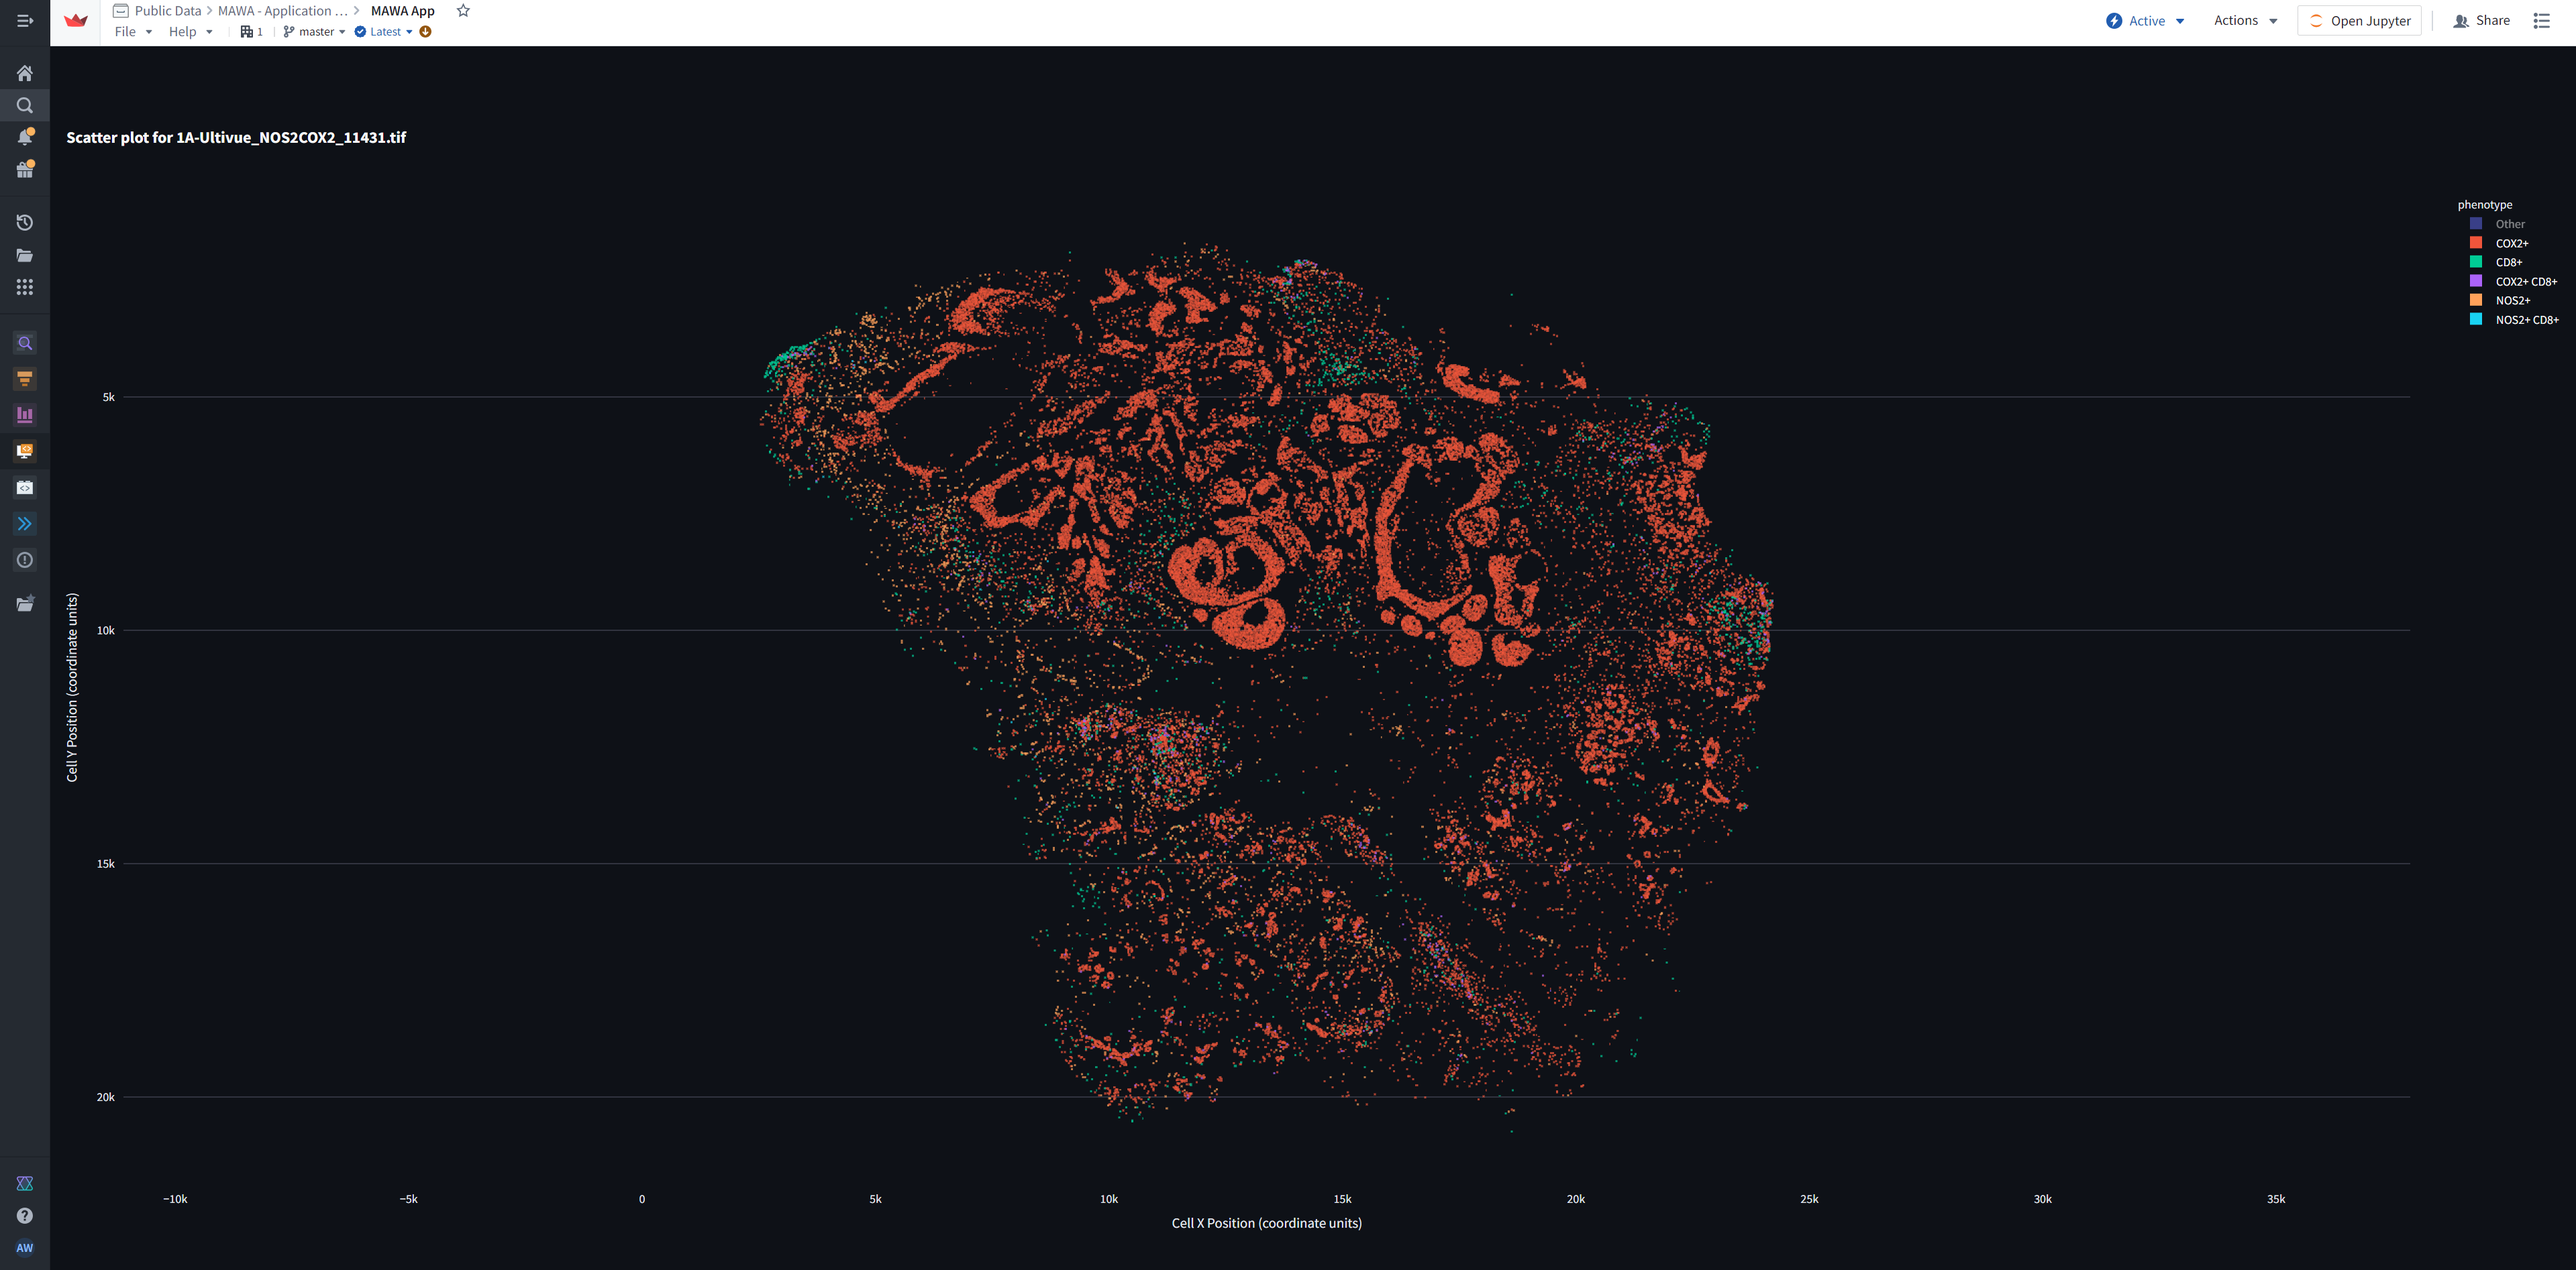
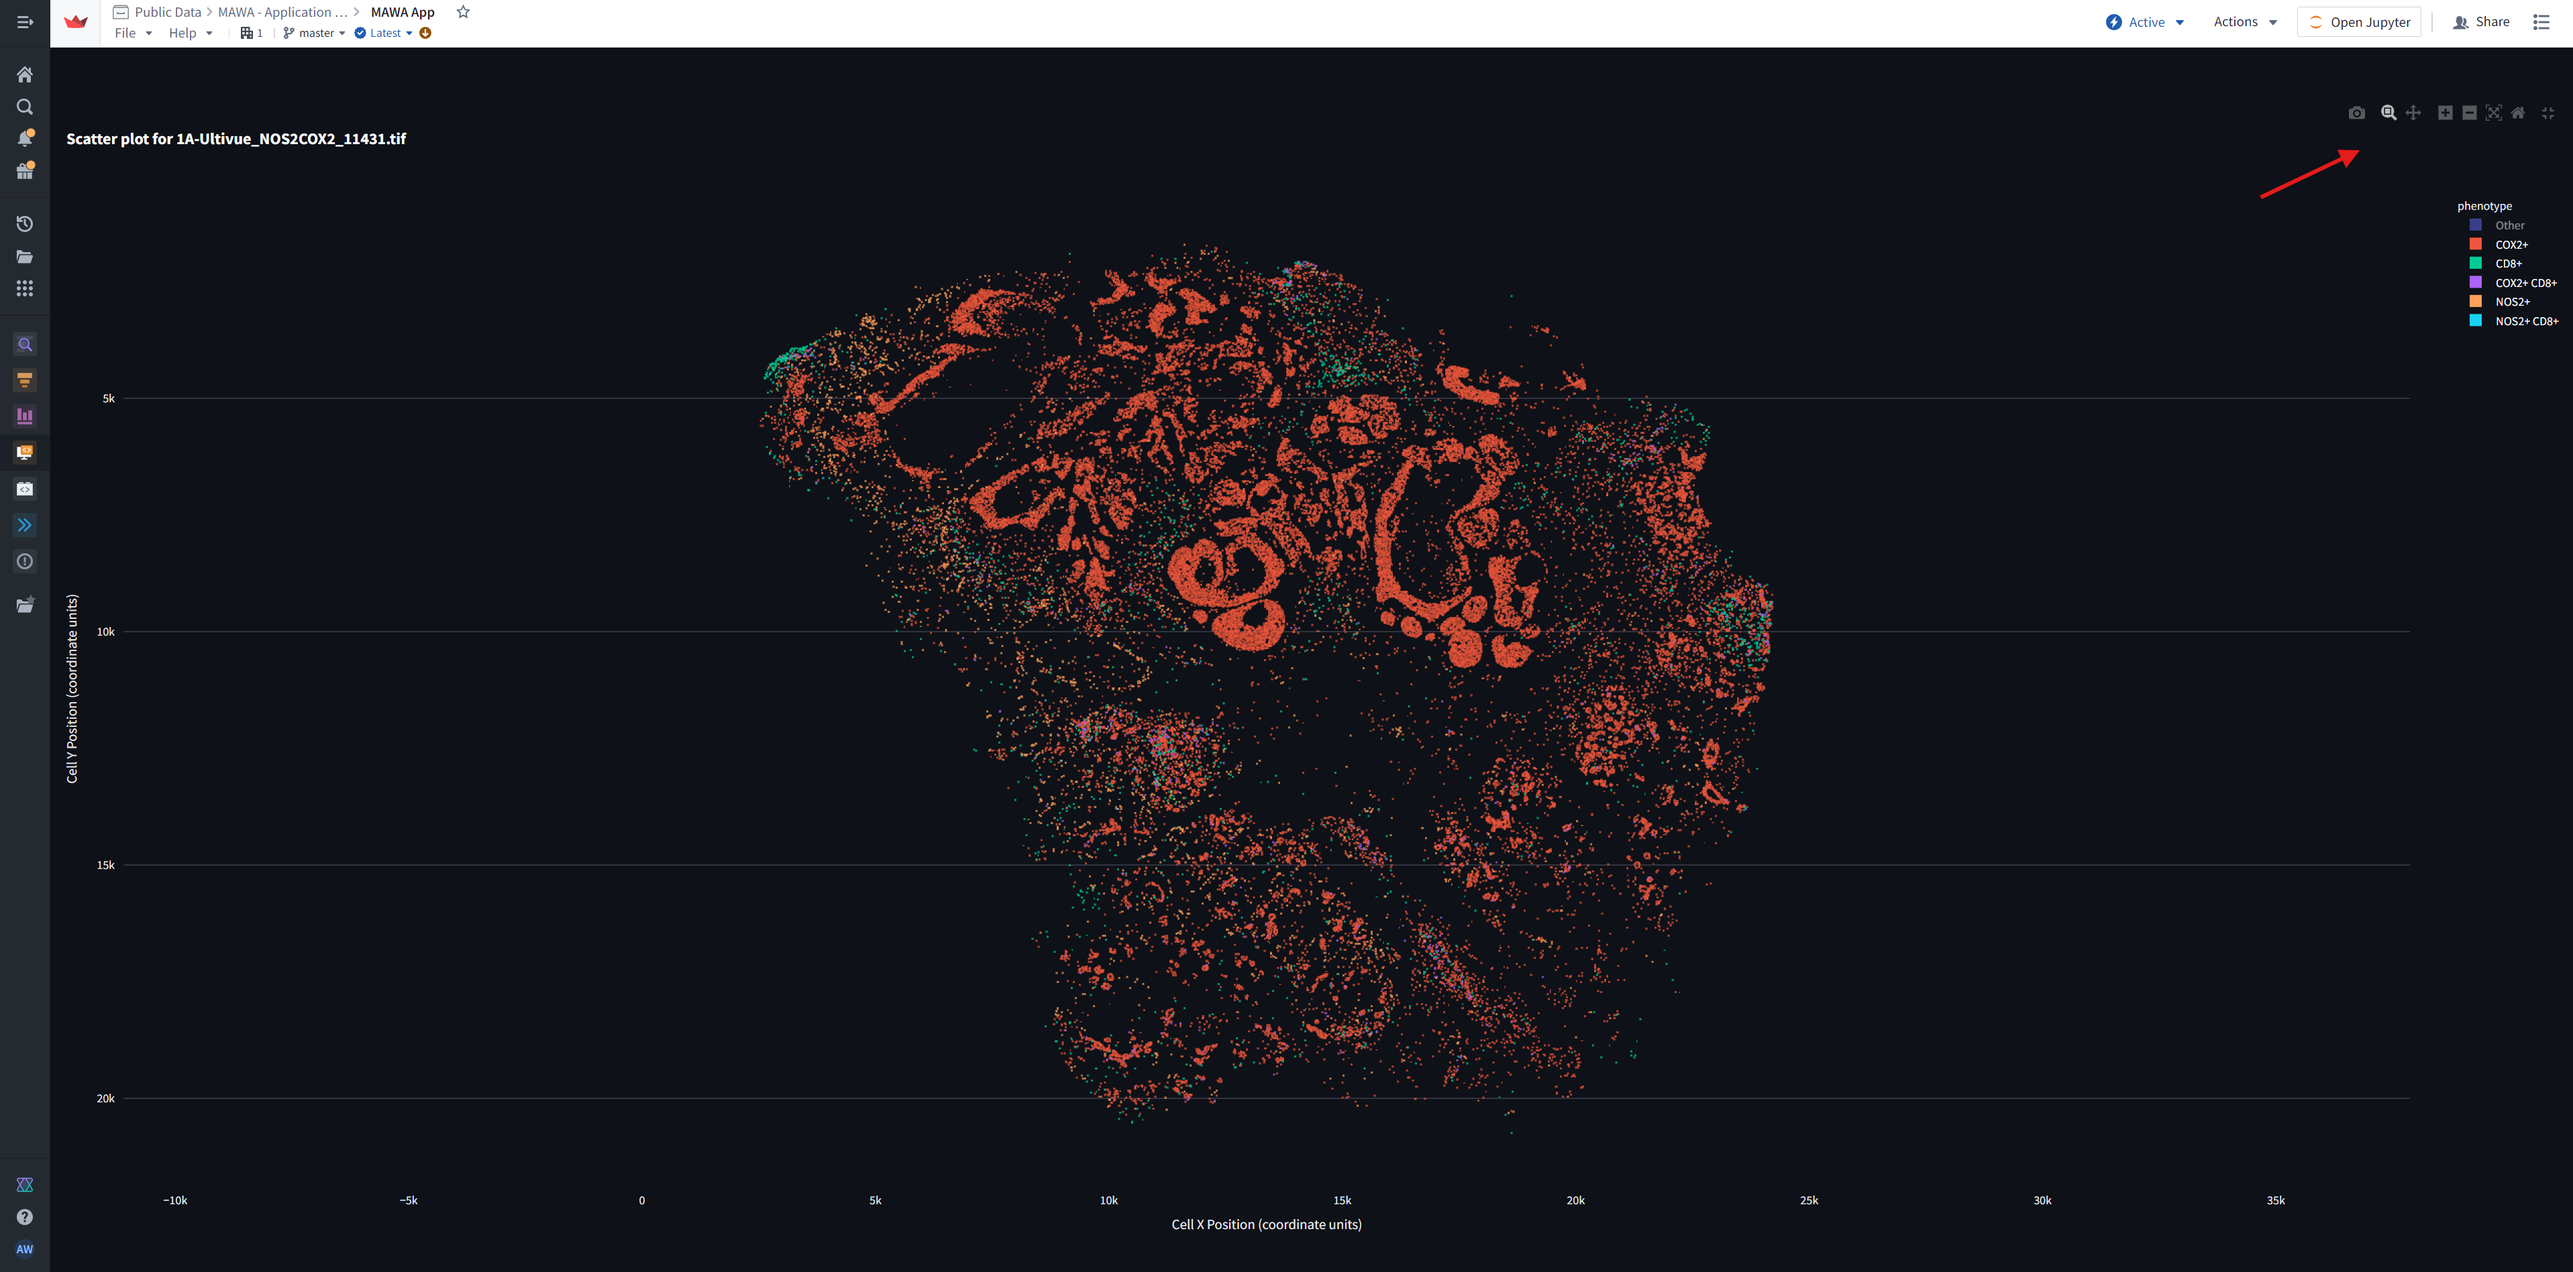
Start adding thresholded phenotyping material

diff --git a/session_1/session_1.md b/session_1/session_1.md
@@ -253,7 +253,7 @@ Let's apply the "species" phenotyping method to the dataset by selecting Species
 
 ![apply_species_phenotyping](full/apply_species_phenotyping.png)
 
-Note the phenotype names in the "phenotype" column of the table in the Phenotype Summary section, which is consistent with the "species" phenotyping method described above. To visualize the phenotyping results, click on the "Coordinate Scatter Plotter" page in the sidebar, select "Phenotyped data" in the "Dataset containing plotting data:" dropdown, select "phenotype" in the "Select a column by which to color the points:" dropdown, and turn on the "Show scatter plot" toggle:
+Note the phenotype names in the "phenotype" column of the table in the Phenotype Summary section, which is consistent with the "species" phenotyping method described above. The scatter plot labeled by the phenotypes, with finite-sized markers, is shown at bottom left. To visualize the individual objects colored by species phenotype, click on the "Coordinate Scatter Plotter" page in the sidebar, select "Phenotyped data" in the "Dataset containing plotting data:" dropdown, select "phenotype" in the "Select a column by which to color the points:" dropdown, and turn on the "Show scatter plot" toggle:
 
 ![color_by_species_phenotype](full/color_by_species_phenotype.png)
 
@@ -261,6 +261,6 @@ Note that by hovering over the image and clicking on the resulting maximize butt
 
 ![hide_all_negative_cells](full/hide_all_negative_cells.png)
 
-When hovering over the scatter plot, there are more options available in the top right, including the ability to zoom in and out, pan, and save the plot to your computer as an image.
+When hovering over the scatter plot, there are more options available in the top right, including the ability to zoom in and out, pan, and save the plot to your computer as an image. Double-click to reset the image view.
 
 Returning to the Thresholded Intensities page, say that we...
